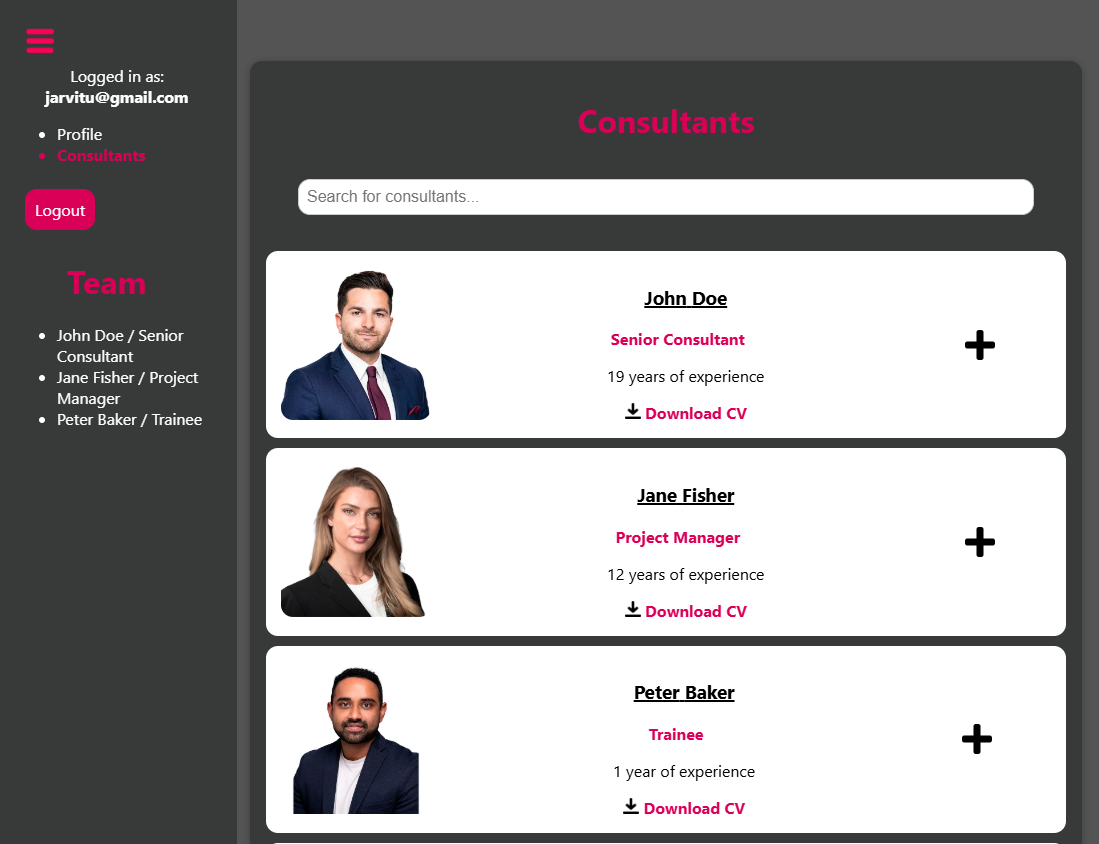
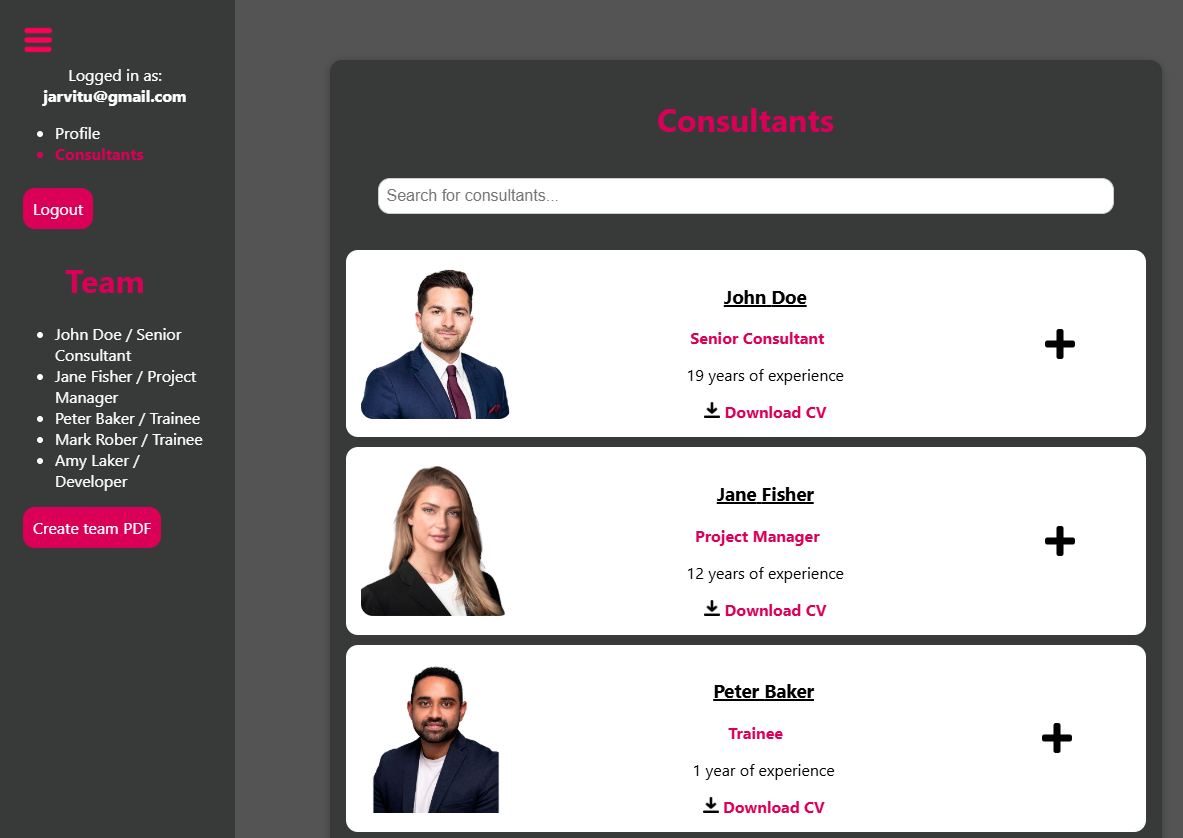
Edited readme

diff --git a/README.md b/README.md
@@ -1,6 +1,14 @@
 # App Project for Pinja to manage consultants
-
 This project was bootstrapped with [Create React App](https://github.com/facebook/create-react-app).
+
+This project was apart of my react.js course in Vaasa University of Applied Sciences
+The assinment was to create an app where you can:
+- Edit consultants cv/info (As main user)
+- Search for consultants
+- Add consultants to team
+- Download team pdf
+- Download consultants CV/info to pdf
+- Edit your own profile info/CV (As main user)
 
 ## Interface
 ![Interface](interface.png)
@@ -9,9 +17,18 @@ This project was bootstrapped with [Create React App](https://github.com/faceboo
 As logged in user you can:
 - Edit consultants cv/info
 - Search for consultants
+- Add consultants to team
+- Download team pdf
 - Download consultants CV/info to pdf
 - Edit your own profile info/CV
 
 ![Edit](edit.png)
+## CV
 ![CV](CV.png)
+## PDF for one consultant
 ![pdf](pdf.png)
+## Team PDF
+![teampdf](teamPdf.png)
+## Profile
+![profile](profile.png)
+
